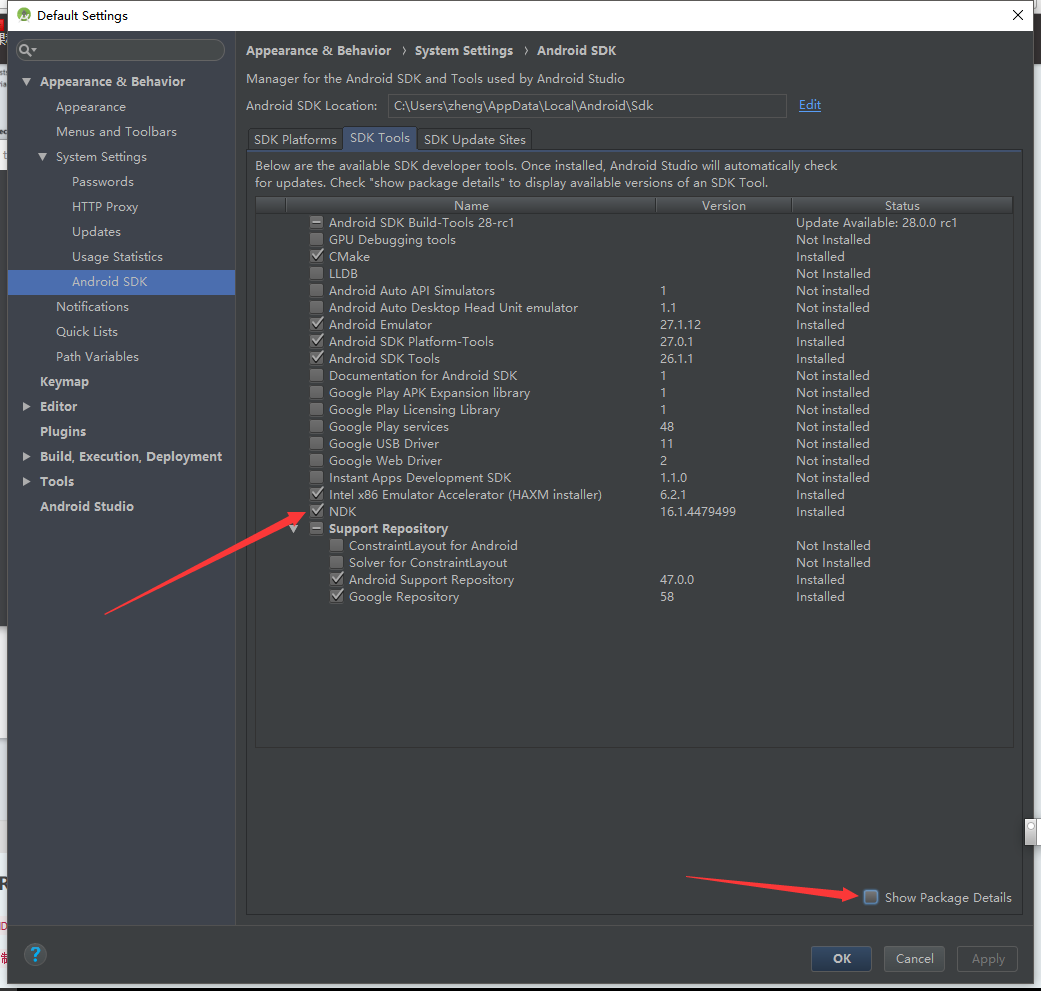
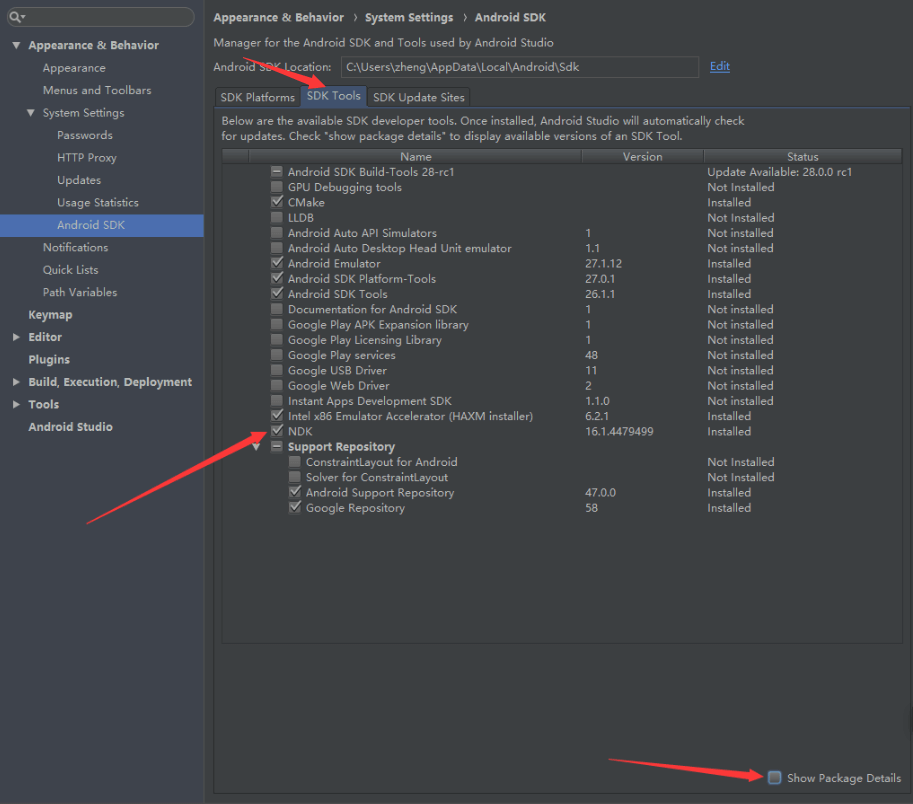
tutorial

diff --git a/README.md b/README.md
@@ -1,18 +1,64 @@
 # ![logo](./logo.png)
 
-_简单，详细的快速入门教程_
+_Simple, detailed, quick tutorial. Attach a demo._
 
 [![React-Native](https://img.shields.io/badge/react--native-^0.51.0-brightgreen.svg?style=flat-square)](https://github.com/facebook/react-native)
 [![React](https://img.shields.io/badge/react-^16.0.0-sliver.svg?style=flat-square)](https://github.com/facebook/react)
 [![Mobx](https://img.shields.io/badge/mobx-^4.2.0-orange.svg?style=flat-square)](https://github.com/mobxjs/mobx)
 
 ## 前言
-开发一款产品，通常来说你需要做三件事情：搭建开发环境 -> 写代码 -> 打包发布。这里不介绍[react](http://www.ruanyifeng.com/blog/2015/03/react.html)、[react-native](http://reactnative.cn/)和[ES6](http://blog.csdn.net/beverley__/article/details/78547973)语法。
+开发一款产品，通常来说你需要做三件事情：搭建开发环境 -> 写代码 -> 调试 -> 打包发布。这里不介绍[react](http://www.ruanyifeng.com/blog/2015/03/react.html)、[react-native](http://reactnative.cn/)和[ES6](http://blog.csdn.net/beverley__/article/details/78547973)语法。
 
 ## 预览
 ![screen](./screenShorts/screen.gif)
 
 ## ① 搭建开发环境
+按照[react-native中文网](http://reactnative.cn/)-文档-搭建开发环境，选择需要的环境开始搭建。
+
+配置开发环境需跳跃出那一道鸿沟，你懂得！推荐[lantern](https://github.com/getlantern/lantern)。
+
+### 增加SDK Tools (android)
+![SDK_Tools](./screenShorts/add_tools.png)
+
+### 增加NDK (android)
+![NDK](./screenShorts/add_ndk.png)
+
+### 配置NDK环境变量 (android)
+新建ANDROID_NDK_HOME，指向路径与下图相同，并在path中添加一遍。
+![NDK](./screenShorts/path_ndk.png)
+
+## ② 设备的配置
+### Android
+打开手机的开发者模式，打开USB调试（模拟器跳过前两句话），连接电脑成功后在终端或者cmd运行`adb devices`。
+~~~
+$ adb devices
+List of devices attached
+emulator-9845 offline      # 模拟器
+JRNJVOU899999999 device    # 真实设备
+~~~
+注意，你只应当连接仅仅一个设备，并且当你的系统大于5.0时，运行`adb reverse tcp:8081 tcp:8081`。
+
+**Android 6.0及以上修改两个文件**
+~~~
+1. 修改android/gradle/wrapper/gradle-wrapper.properties
+
+distributionUrl=https\://services.gradle.org/distributions/gradle-2.2-all.zip
+->
+distributionUrl=https\://services.gradle.org/distributions/gradle-2.14.1-all.zip
+
+2. 修改android/build.gradle
+
+com.android.tools.build:gradle:1.2.3
+->
+com.android.tools.build:gradle:2.2.3
+~~~
+
+### IOS
+首先用Xcode打开`./ios/xxxx.xcodeproj`
+
+![IOS_RUN](./screenShorts/ios_run.png)
+
+真机调试：自行百度，开发者账号 -> 连接iphone -> 无线连接 -> iphone信任设备
 
 ## 目录
 - [项目环境及各种依赖的版本](#项目环境及各种依赖的版本)
@@ -46,46 +92,11 @@ _简单，详细的快速入门教程_
 9. Android Studio 3.0 (用来下载sdk)
 10. javac 1.8.0_151
 
-## First Blood
-按照[react-native中文网](http://reactnative.cn/)-文档-搭建开发环境，请仔细仔细再仔细的按照教程把需要的环境配置起来，并收藏该网址。
-
-配置开发环境需跳跃出那一道鸿沟，你懂得！推荐[lantern](https://github.com/getlantern/lantern)。
-
-### 增加SDK Tools (android)
-![SDK_Tools](./screenShorts/add_tools.png)
-
-### 增加NDK (android)
-![NDK](./screenShorts/add_ndk.png)
-
-### 配置NDK环境变量 (android)
-新建ANDROID_NDK_HOME，指向路径与下图相同，并在path中添加一遍。
-![NDK](./screenShorts/path_ndk.png)
-
-开始拉代码吧，`git clone https://github.com/beverle-y/rn-mobx-starter.git`，然后打开手机的开发者模式，打开USB调试，插到电脑上面之后运行`adb devices`。
-
-~~~
-$ adb devices
-List of devices attached
-emulator-9845 offline   # Google模拟器
-JRNJVOU899999999 device         # 真实设备
-~~~
-注意，你只应当连接仅仅一个设备，并且当你的系统大于5.0时，运行`adb reverse tcp:8081 tcp:8081`。
+开始拉代码吧，`git clone https://github.com/beverle-y/rn-mobx-starter.git`
 
 ### No connected devices！
 检查是否正确连接手机并确认USB调试是否开启。
 ![noconnect](./screenShorts/noconnect.png)
-
-## Android 6.0及以上修改两个文件
-~~~
-1. 修改android/gradle/wrapper/gradle-wrapper.properties
-distributionUrl=https\://services.gradle.org/distributions/gradle-2.2-all.zip
-->
-distributionUrl=https\://services.gradle.org/distributions/gradle-2.14.1-all.zip
-2. 修改android/build.gradle
-com.android.tools.build:gradle:1.2.3
-->
-com.android.tools.build:gradle:2.2.3
-~~~
 
 clone完成以后进入项目文件夹`cd rn-mobx-starter`&&`yarn`等待下载........100%
 
